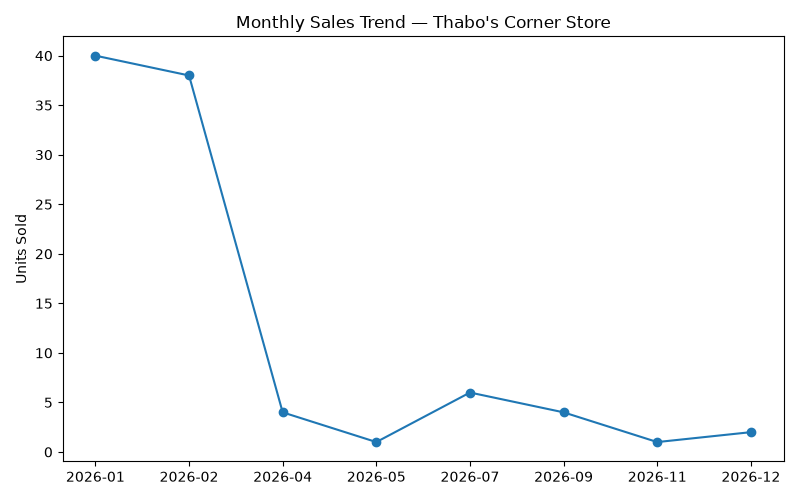
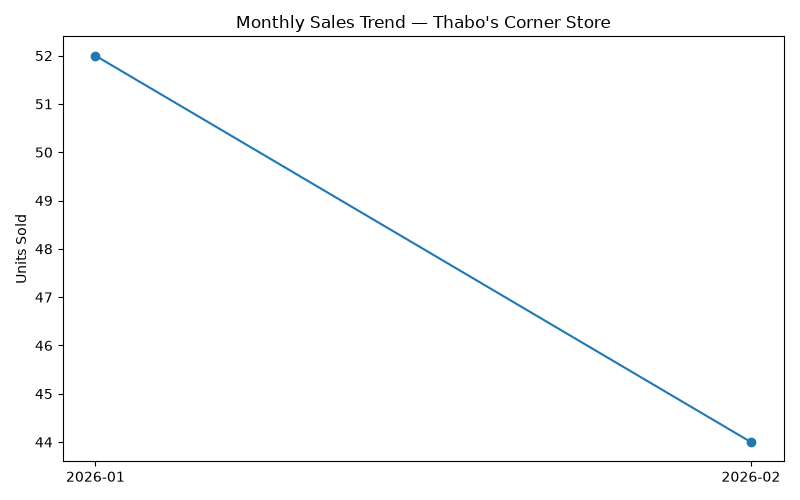
Fix date parsing and refresh sales database

diff --git a/starter_code/data_cleaning.py b/starter_code/data_cleaning.py
@@ -74,49 +74,52 @@ def clean_products(products_df: "pd.DataFrame") -> "pd.DataFrame":
     return cleaned
 
 
+
 def clean_sales(sales_df: "pd.DataFrame", valid_product_ids) -> "pd.DataFrame":
     """
-    Clean the sales DataFrame.
-
-    Args:
-        sales_df: the raw sales DataFrame
-        valid_product_ids: a collection of product_id values that exist
-            in the cleaned products table (use this to catch invalid /
-            mistyped product references)
-
-    Must handle:
-        - Standardise sale_date to a single format: YYYY-MM-DD
-          (hint: pandas.to_datetime() can parse several formats if you
-          pass them one at a time, or try errors="coerce" and inspect
-          what fails)
-        - Rows with a missing or unparseable sale_date
-        - Rows with a missing quantity
-        - Rows with a missing payment_method (what's a sensible default?
-          "Unknown" is a common, honest choice — don't guess a specific method)
-        - Rows whose product_id is NOT in valid_product_ids
-        - Duplicate rows
-
-    Returns:
-        A cleaned copy of the DataFrame with a standardised sale_date
-        column (as a string in YYYY-MM-DD format) and no missing values
-        in quantity or product_id.
+    Clean sales data and standardise dates to YYYY-MM-DD.
     """
     cleaned = sales_df.copy()
-    cleaned["sale_date"] = pd.to_datetime(
-    cleaned["sale_date"],
-    format="mixed",
-    errors="coerce"
-)
+
+    # Standardise the supported date formats explicitly.
+    raw_dates = cleaned["sale_date"].astype("string").str.strip()
+
+    parsed_dates = pd.Series(
+        pd.NaT,
+        index=cleaned.index,
+        dtype="datetime64[ns]"
+    )
+
+    date_formats = [
+        "%Y-%m-%d",
+        "%Y/%m/%d",
+        "%d/%m/%Y",
+        "%d-%m-%Y",
+    ]
+
+    for date_format in date_formats:
+        converted = pd.to_datetime(
+            raw_dates,
+            format=date_format,
+            errors="coerce"
+        )
+        parsed_dates = parsed_dates.fillna(converted)
+
+    cleaned["sale_date"] = parsed_dates
     cleaned = cleaned.dropna(subset=["sale_date"])
     cleaned["sale_date"] = cleaned["sale_date"].dt.strftime("%Y-%m-%d")
-    cleaned["quantity"] = pd.to_numeric(cleaned["quantity"], errors="coerce")
+    
+
+    # Clean the remaining sales columns.
+    cleaned["quantity"] = pd.to_numeric(
+        cleaned["quantity"], errors="coerce"
+    )
     cleaned = cleaned.dropna(subset=["quantity"])
     cleaned["payment_method"] = cleaned["payment_method"].fillna("Unknown")
     cleaned = cleaned[cleaned["product_id"].isin(valid_product_ids)]
     cleaned = cleaned.drop_duplicates()
 
     return cleaned
-
 
 def cleaning_summary(raw_df: "pd.DataFrame", clean_df: "pd.DataFrame", name: str) -> str:
     """

diff --git a/starter_code/database.py b/starter_code/database.py
@@ -81,20 +81,16 @@ def create_tables(conn: sqlite3.Connection) -> None:
     conn.commit()
 
 
-def insert_products(conn: sqlite3.Connection, products_df) -> None:
-    """
-    Insert every row of the cleaned products DataFrame into the
-    products table.
 
-    TODO:
-        Loop through products_df.itertuples() (or use
-        products_df.to_sql("products", conn, if_exists="append", index=False))
-        and insert each row. Remember conn.commit().
-    """
+def insert_products(conn: sqlite3.Connection, products_df) -> None:
+    """Replace stored products with the latest cleaned product data."""
+    conn.execute("DELETE FROM sales")
+    conn.execute("DELETE FROM products")
+
     for row in products_df.itertuples(index=False):
         conn.execute(
             """
-            INSERT OR IGNORE INTO products
+            INSERT INTO products
             (product_id, product_name, category, unit_price)
             VALUES (?, ?, ?, ?)
             """,
@@ -104,16 +100,16 @@ def insert_products(conn: sqlite3.Connection, products_df) -> None:
     conn.commit()
 
 
-def insert_sales(conn: sqlite3.Connection, sales_df) -> None:
-    """
-    Insert every row of the cleaned sales DataFrame into the sales table.
 
-    TODO: same approach as insert_products().
-    """
+
+def insert_sales(conn: sqlite3.Connection, sales_df) -> None:
+    """Replace stored sales with the latest cleaned sales data."""
+    conn.execute("DELETE FROM sales")
+
     for row in sales_df.itertuples(index=False):
         conn.execute(
             """
-            INSERT OR IGNORE INTO sales
+            INSERT INTO sales
             (sale_id, product_id, quantity, sale_date, payment_method, customer_type)
             VALUES (?, ?, ?, ?, ?, ?)
             """,
@@ -128,6 +124,7 @@ def insert_sales(conn: sqlite3.Connection, sales_df) -> None:
         )
 
     conn.commit()
+
 
 
 # ---------------------------------------------------------------------
